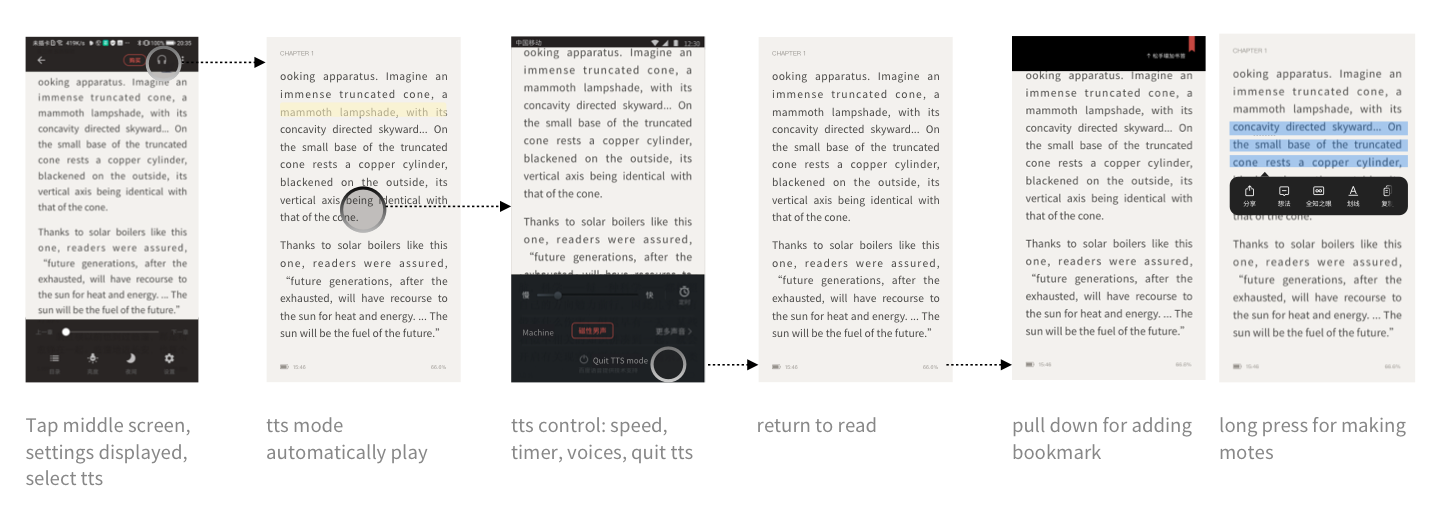
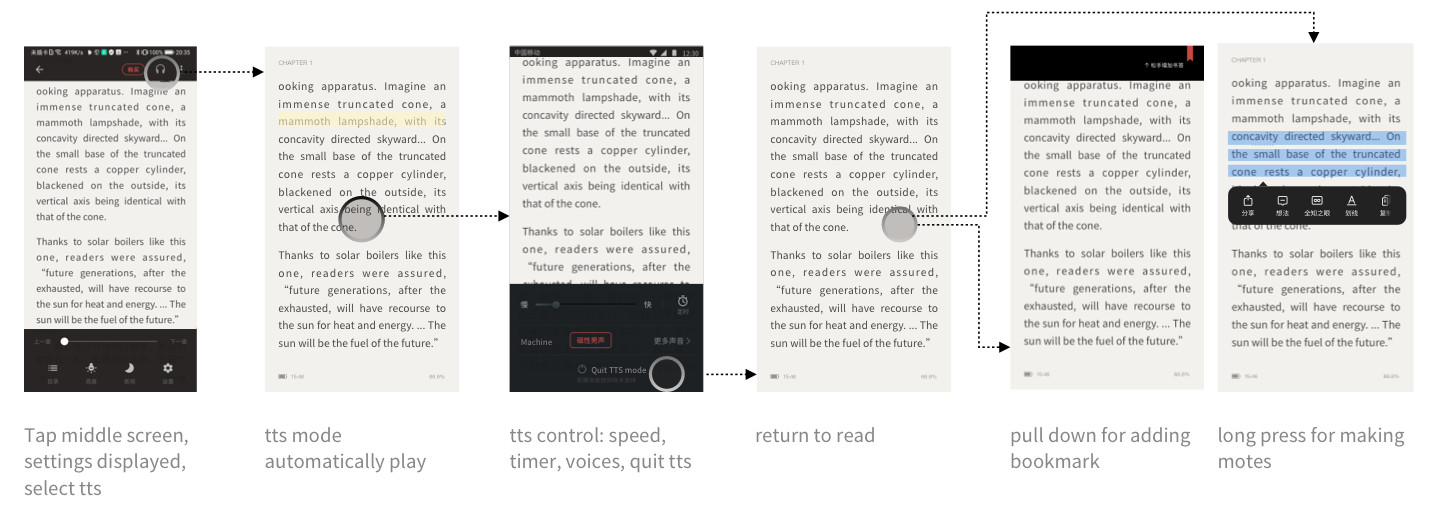
image update

diff --git a/projects/tts.html b/projects/tts.html
@@ -166,7 +166,7 @@
             <h2>Current TTS Process</h2>
         </section>
         <div class="text-center">
-            <img src="../assets/img/tts/1.png" class="img-fluid" alt="...">
+            <img src="../assets/img/tts/1.png" width="1400px" class="img-fluid" alt="...">
         </div>
     </div>
     <br>
@@ -250,7 +250,7 @@
             <p class="text-emphasize">What suprise me from existing data is that...</p>
         </section>
         <div class="text-center">
-            <img src="../assets/img/tts/2.png" width="1000px" class="img-fluid" alt="...">
+            <img src="../assets/img/tts/2.png" width="1200px" class="img-fluid" alt="...">
         </div>
         <br>
 
